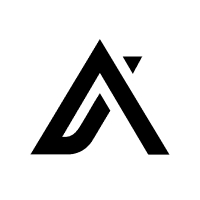
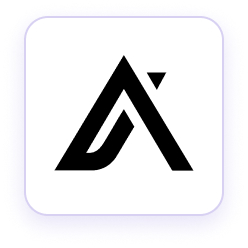
adjust animation

diff --git a/style.css b/style.css
@@ -78,11 +78,10 @@
 
 @keyframes main_logo_shadow {
   35%,
-  70% {
+  55% {
     opacity: 0.1;
   }
-  40%,
-  60% {
+  45% {
     scale: var(--scale);
     opacity: 0.45;
   }
@@ -94,6 +93,7 @@
   scale: 0.5;
   position: relative;
   z-index: 2;
+  border-radius: 0.872rem;
 }
 .main_logo_wrapper {
   position: relative;
@@ -209,6 +209,10 @@
   animation-timing-function: linear;
   animation-iteration-count: infinite;
 }
+.right_branch > *::after,
+.right_branch > *::before {
+  animation-delay: -1.5s;
+}
 
 .left_top::before,
 .left_top::after,
@@ -236,20 +240,21 @@
 @keyframes right_top_top {
   60% {
     rotate: 0deg;
-    translate: 0 450%;
+    translate: 0 480%;
   }
   74% {
-    translate: 150% 380%;
+    translate: 120% 430%;
   }
   80% {
     rotate: -75deg;
   }
-  90% {
-    translate: 150% 70%;
+  95% {
+    rotate: -25deg;
+    translate: 200% -80%;
   }
   100% {
     rotate: 0deg;
-    translate: 250% -50%;
+    translate: 200% -100%;
   }
 }
 .right_top::before {
